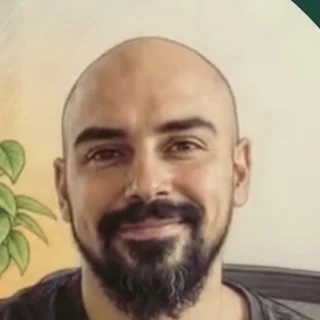
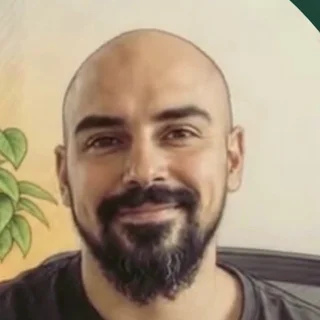
Encuadres: Miguel menos zoom y más arriba; cara de Marco más arriba en su círculo

diff --git a/index.html b/index.html
@@ -192,7 +192,7 @@
         <article class="resena" itemscope itemtype="https://schema.org/Review">
           <div itemprop="itemReviewed" itemscope itemtype="https://schema.org/Service"><meta itemprop="name" content="Diseño web Tu Web Moderna"></div>
           <div class="resena__quien">
-            <img class="resena__foto" src="assets/img/resena-miguel-angel.webp?v=2" alt="Miguel Ángel Cuevas" width="58" height="58">
+            <img class="resena__foto" src="assets/img/resena-miguel-angel.webp?v=3" alt="Miguel Ángel Cuevas" width="58" height="58">
             <span><strong class="resena__nombre" itemprop="author">Miguel Ángel Cuevas</strong><br>
             <span class="resena__negocio">Langre Wayve House · Cantabria</span><br>
             <a class="resena__web" href="https://www.wayve.es" target="_blank" rel="noopener">Visitar página web ↗</a></span>
@@ -268,7 +268,7 @@
       <h2 id="t-final">¿Hablamos de tu web?</h2>
       <div class="final__bloque">
       <div class="chat">
-        <img src="assets/img/marco-chat.webp?v=6" alt="Marco" width="72" height="72" loading="lazy">
+        <img src="assets/img/marco-chat.webp?v=7" alt="Marco" width="72" height="72" loading="lazy">
         <p class="burbuja">Escríbeme por WhatsApp y cuéntame qué negocio tienes. Te preparo tu web antes de pagar, sin compromiso.<strong>— Marco</strong></p>
       </div>
       <p class="final__cta"><a class="btn btn--lima" href="https://wa.me/34633548224?text=Hola%20Marco%2C%20me%20gustar%C3%ADa%20pedir%20la%20demo%20gratuita%20para%20mi%20negocio." target="_blank" rel="noopener"><svg viewBox="0 0 24 24" fill="none" stroke="currentColor" stroke-width="1.5" stroke-linecap="round" stroke-linejoin="round" aria-hidden="true"><path d="M17 12.5C17.2761 12.5 17.5 12.2761 17.5 12C17.5 11.7239 17.2761 11.5 17 11.5C16.7239 11.5 16.5 11.7239 16.5 12C16.5 12.2761 16.7239 12.5 17 12.5Z" fill="currentColor"/><path d="M12 12.5C12.2761 12.5 12.5 12.2761 12.5 12C12.5 11.7239 12.2761 11.5 12 11.5C11.7239 11.5 11.5 11.7239 11.5 12C11.5 12.2761 11.7239 12.5 12 12.5Z" fill="currentColor"/><path d="M7 12.5C7.27614 12.5 7.5 12.2761 7.5 12C7.5 11.7239 7.27614 11.5 7 11.5C6.72386 11.5 6.5 11.7239 6.5 12C6.5 12.2761 6.72386 12.5 7 12.5Z" fill="currentColor"/><path d="M12 22C17.5228 22 22 17.5228 22 12C22 6.47715 17.5228 2 12 2C6.47715 2 2 6.47715 2 12C2 13.8214 2.48697 15.5291 3.33782 17L2.5 21.5L7 20.6622C8.47087 21.513 10.1786 22 12 22Z"/></svg>Pide tu web gratis</a></p>
